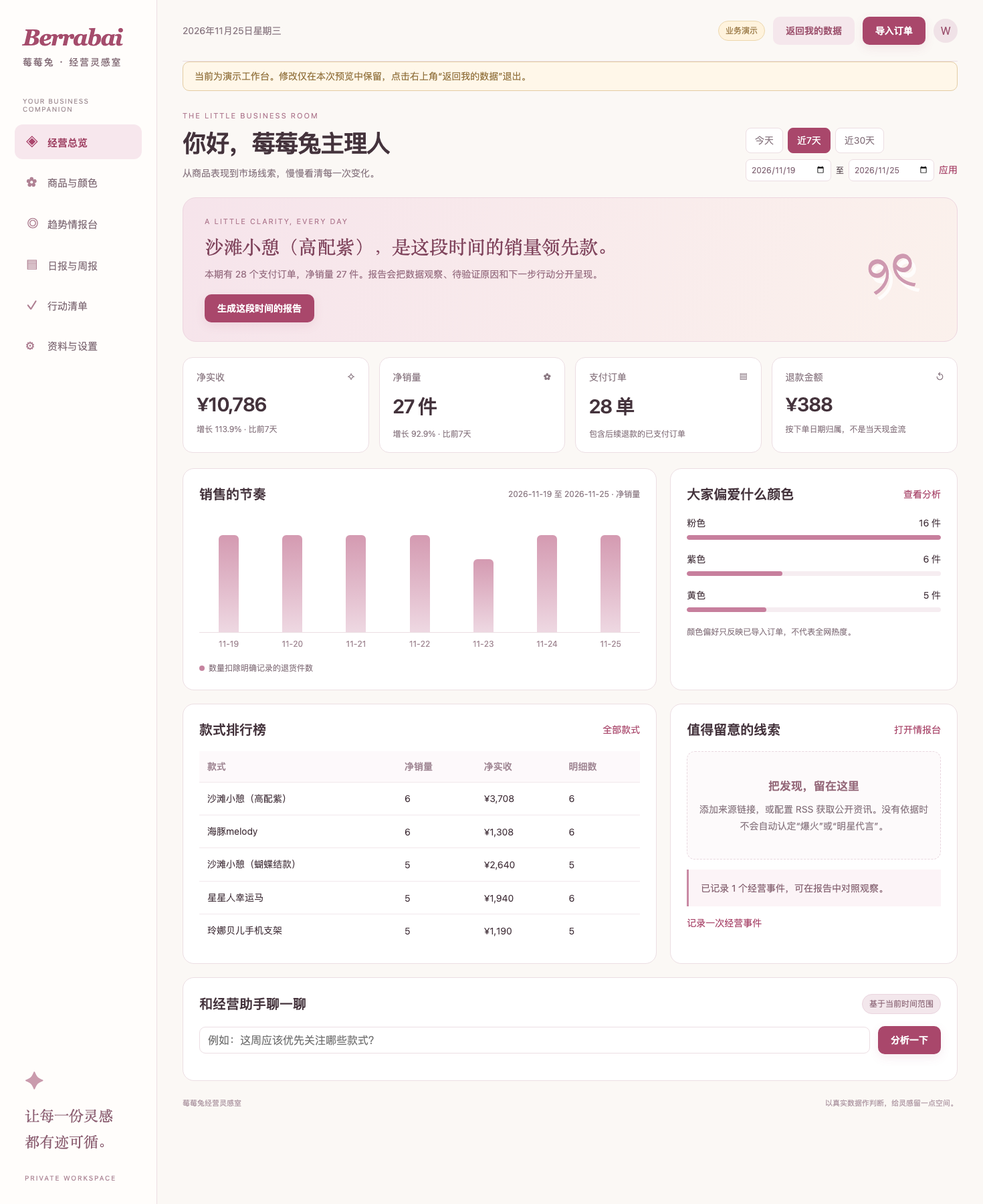
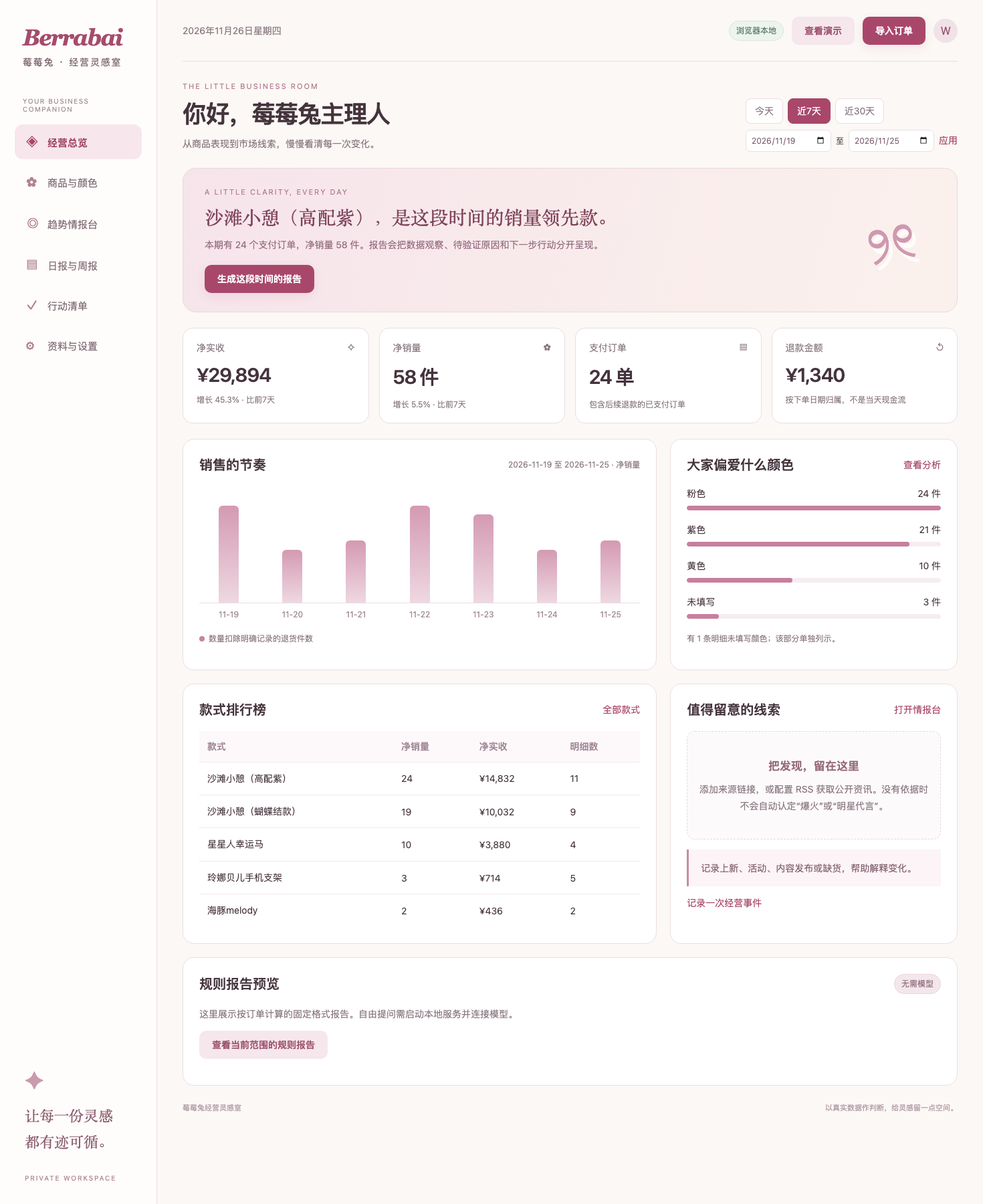
Fix order status and report periods; add product case study and demo walkthrough

diff --git a/dist/owner.js b/dist/owner.js
@@ -2,11 +2,15 @@
 const BerrabaiCore=(()=>{
  const day=d=>{const t=new Date(d);return `${t.getFullYear()}-${String(t.getMonth()+1).padStart(2,'0')}-${String(t.getDate()).padStart(2,'0')}`};
  const shift=(s,n)=>{const d=new Date(s+'T12:00:00');d.setDate(d.getDate()+n);return day(d)};
- function summarize(orders,start,end){if(![start,end].every(x=>/^\d{4}-\d{2}-\d{2}$/.test(x)&&!isNaN(new Date(x+'T12:00:00'))&&day(new Date(x+'T12:00:00'))===x))throw Error('请选择有效的开始与结束日期');const n=Math.round((new Date(end+'T12:00:00')-new Date(start+'T12:00:00'))/86400000)+1;if(n<1||n>366)throw Error('请选择1–366天的时间范围');const accepted=o=>!['已取消','未付款','已关闭'].includes(o.status);const current=orders.filter(o=>o.date>=start&&o.date<=end&&accepted(o));const previous=orders.filter(o=>o.date>=shift(start,-n)&&o.date<start&&accepted(o));const stats=rows=>({revenue:rows.reduce((s,o)=>s+o.paid-o.refund,0),paid:rows.reduce((s,o)=>s+o.paid,0),refund:rows.reduce((s,o)=>s+o.refund,0),quantity:rows.reduce((s,o)=>s+o.qty-o.refundQty,0),orders:new Set(rows.map(o=>o.orderId)).size,lines:rows.length});const group=(field)=>{const m=new Map;current.forEach(o=>{const key=o[field]||'未填写';let r=m.get(key)||{name:key,quantity:0,revenue:0,lines:0};r.quantity+=o.qty-o.refundQty;r.revenue+=o.paid-o.refund;r.lines++;m.set(key,r)});return [...m.values()].sort((a,b)=>b.quantity-a.quantity||b.revenue-a.revenue)};const daily=[];for(let d=start;d<=end;d=shift(d,1))daily.push({date:d,...stats(current.filter(o=>o.date===d))});return {start,end,days:n,...stats(current),previous:stats(previous),products:group('product'),colors:group('color'),daily,coverage:current.length,unknownColor:current.filter(o=>!o.color||o.color==='未填写').length}}
+ const paidStatuses=new Set(['已支付','已付款','待发货','已发货','已完成','交易成功','部分退款','已退款','退款成功']);
+ const isPaidStatus=status=>paidStatuses.has(status);
+ const comparison=(n,p,has,days)=>!has?'无上期数据':p===0?'上期为 0，暂不计算增幅':`${n>=p?'增长':'下降'} ${Math.abs((n-p)/p*100).toFixed(1)}% · 比前${days}天`;
+ function reportRange(kind,today,start,end){if(kind==='day')return [shift(today,-1),shift(today,-1)];if(kind==='week')return [shift(today,-7),shift(today,-1)];return [start,end]}
+ function summarize(orders,start,end){if(![start,end].every(x=>/^\d{4}-\d{2}-\d{2}$/.test(x)&&!isNaN(new Date(x+'T12:00:00'))&&day(new Date(x+'T12:00:00'))===x))throw Error('请选择有效的开始与结束日期');const n=Math.round((new Date(end+'T12:00:00')-new Date(start+'T12:00:00'))/86400000)+1;if(n<1||n>366)throw Error('请选择1–366天的时间范围');const accepted=o=>isPaidStatus(o.status);const current=orders.filter(o=>o.date>=start&&o.date<=end&&accepted(o));const previous=orders.filter(o=>o.date>=shift(start,-n)&&o.date<start&&accepted(o));const stats=rows=>({revenue:rows.reduce((s,o)=>s+o.paid-o.refund,0),paid:rows.reduce((s,o)=>s+o.paid,0),refund:rows.reduce((s,o)=>s+o.refund,0),quantity:rows.reduce((s,o)=>s+o.qty-o.refundQty,0),orders:new Set(rows.map(o=>o.orderId)).size,lines:rows.length});const group=(field)=>{const m=new Map;current.forEach(o=>{const key=o[field]||'未填写';let r=m.get(key)||{name:key,quantity:0,revenue:0,lines:0};r.quantity+=o.qty-o.refundQty;r.revenue+=o.paid-o.refund;r.lines++;m.set(key,r)});return [...m.values()].sort((a,b)=>b.quantity-a.quantity||b.revenue-a.revenue)};const daily=[];for(let d=start;d<=end;d=shift(d,1))daily.push({date:d,...stats(current.filter(o=>o.date===d))});return {start,end,days:n,...stats(current),previous:stats(previous),products:group('product'),colors:group('color'),daily,coverage:current.length,unrecognizedStatus:orders.filter(o=>o.date>=start&&o.date<=end&&!accepted(o)&&!['已取消','未付款','已关闭'].includes(o.status)).length,unknownColor:current.filter(o=>!o.color||o.color==='未填写').length}}
  function parseCSV(text){text=text.replace(/^\uFEFF/,'');const delim=text.split(/\r?\n/)[0].includes('\t')?'\t':',';let rows=[],row=[],cell='',quoted=false;for(let i=0;i<text.length;i++){let c=text[i];if(c==='"'){if(quoted&&text[i+1]==='"'){cell+='"';i++}else if(!quoted&&cell.length)throw Error('CSV引号格式不正确');else quoted=!quoted}else if(c===delim&&!quoted){row.push(cell);cell=''}else if((c==='\n'||c==='\r')&&!quoted){if(c==='\r'&&text[i+1]==='\n')i++;row.push(cell);if(row.some(x=>x.trim()))rows.push(row);row=[];cell=''}else cell+=c}if(quoted)throw Error('CSV引号未闭合');row.push(cell);if(row.some(x=>x.trim()))rows.push(row);if(rows.length<2)throw Error('文件至少需要表头和一行数据');const headers=rows.shift().map(x=>x.trim());if(new Set(headers).size!==headers.length)throw Error('存在重复列名，请先修改表头');return {headers,rows}}
  const cents=s=>{const v=String(s||'0').trim().replace(/[¥￥,\s]/g,'');if(!/^\d+(\.\d{1,2})?$/.test(v))throw Error('金额需为非负数，最多两位小数');const [a,b='']=v.split('.');const x=Number(a)*100+Number(b.padEnd(2,'0'));if(!Number.isSafeInteger(x)||x>1e11)throw Error('金额超出范围');return x};
- function normalize(raw,mapping){return raw.rows.map((r,i)=>{const val=k=>mapping[k]===undefined||mapping[k]===''?'':String(r[Number(mapping[k])]||'').trim();let date=val('date').slice(0,10).replace(/[/.]/g,'-');if(!/^\d{4}-\d{2}-\d{2}$/.test(date)||isNaN(new Date(date+'T12:00:00'))||day(new Date(date+'T12:00:00'))!==date)throw Error(`第${i+2}行：日期需为YYYY-MM-DD`);const orderId=val('orderId'),lineId=val('lineId'),product=val('product');if(!orderId||!product)throw Error(`第${i+2}行：订单号和商品名不能为空`);const qty=Number(val('qty')),refundQty=Number(val('refundQty')||0);if(!Number.isInteger(qty)||qty<1||qty>100000||!Number.isInteger(refundQty)||refundQty<0||refundQty>qty)throw Error(`第${i+2}行：数量或退货件数无效`);let paid,refund;try{paid=cents(val('paid'));refund=cents(val('refund'))}catch(e){throw Error(`第${i+2}行：${e.message}`)}if(refund>paid)throw Error(`第${i+2}行：退款不能超过实付金额`);const color=val('color')||'未填写';return {id:JSON.stringify([orderId,lineId||product+'|'+color]),orderId,lineId,date,product,color,qty,refundQty,paid,refund,status:val('status')||'已支付'}})}
- return {day,shift,summarize,parseCSV,normalize,cents};
+ function normalize(raw,mapping){return raw.rows.map((r,i)=>{const val=k=>mapping[k]===undefined||mapping[k]===''?'':String(r[Number(mapping[k])]||'').trim();let date=val('date').slice(0,10).replace(/[/.]/g,'-');if(!/^\d{4}-\d{2}-\d{2}$/.test(date)||isNaN(new Date(date+'T12:00:00'))||day(new Date(date+'T12:00:00'))!==date)throw Error(`第${i+2}行：日期需为YYYY-MM-DD`);const orderId=val('orderId'),lineId=val('lineId'),product=val('product');if(!orderId||!product)throw Error(`第${i+2}行：订单号和商品名不能为空`);const qty=Number(val('qty')),refundQty=Number(val('refundQty')||0);if(!Number.isInteger(qty)||qty<1||qty>100000||!Number.isInteger(refundQty)||refundQty<0||refundQty>qty)throw Error(`第${i+2}行：数量或退货件数无效`);let paid,refund;try{paid=cents(val('paid'));refund=cents(val('refund'))}catch(e){throw Error(`第${i+2}行：${e.message}`)}if(refund>paid)throw Error(`第${i+2}行：退款不能超过实付金额`);const color=val('color')||'未填写';return {id:JSON.stringify([orderId,lineId||product+'|'+color]),orderId,lineId,date,product,color,qty,refundQty,paid,refund,status:val('status')||'待核对'}})}
+ return {day,shift,summarize,parseCSV,normalize,cents,isPaidStatus,comparison,reportRange};
 })();
 if(typeof window!=='undefined')window.BerrabaiCore=BerrabaiCore;
 if(typeof document!=='undefined')(()=>{
@@ -22,14 +26,14 @@ async function change(fn){if(busy)return;busy=true;const old=structuredClone(sta
 function download(name,body,type='text/plain;charset=utf-8'){const a=document.createElement('a'),url=URL.createObjectURL(new Blob([body],{type}));a.href=url;a.download=name;a.click();setTimeout(()=>URL.revokeObjectURL(url),1000)}
 function sample(){const s=emptyState();const specs=[['沙滩小憩（蝴蝶结款）','粉色',528],['沙滩小憩（高配紫）','紫色',618],['星星人幸运马','黄色',388],['海豚melody','粉色',218],['玲娜贝儿手机支架','粉色',238]];for(let d=13;d>=0;d--){for(let j=0;j<(d<7?4:2);j++){const p=specs[(d+j)%specs.length],ref=d===2&&j===0;s.orders.push({id:'sample-'+d+'-'+j,orderId:'示例'+d+j,lineId:'1',date:C.shift(today,-d),product:p[0],color:p[1],qty:1,refundQty:ref?1:0,paid:p[2]*100,refund:ref?p[2]*100:0,status:'已支付'})}}s.events=[{id:uid(),date:C.shift(today,-3),title:'示例：发布紫色款实拍内容',type:'内容发布',note:'仅为演示记录，不代表真实经营事件'}];s.tasks=[{id:uid(),title:'核对本周热销款的材料与交期',due:C.shift(today,2),done:false},{id:uid(),title:'补充商品颜色字段，减少未知数据',due:C.shift(today,1),done:false}];return s}
 function metrics(){return C.summarize(state.orders,start,end)}
-const compare=(n,p,has)=>!has?'无上期数据':p===0?'上期为 0，暂不计算增幅':`${n>=p?'增长':'下降'} ${Math.abs((n-p)/p*100).toFixed(1)}% · 比前${period}天`;
+const compare=(n,p,has,days=period)=>C.comparison(n,p,has,days);
 function header(title,en,sub,filters=true){return `<div class="page-head"><div><div class="eyebrow">${en}</div><h1>${title}</h1><p class="sub">${sub}</p></div>${filters?`<div><div class="filters">${[1,7,30].map(n=>`<button data-period="${n}" class="${period===n?'active':''}">${n===1?'今天':'近'+n+'天'}</button>`).join('')}</div><div class="date-range" style="margin-top:9px"><input id="rangeStart" aria-label="开始日期" type="date" value="${start}"><span>至</span><input id="rangeEnd" aria-label="结束日期" type="date" value="${end}"><button class="mini-link" data-action="range">应用</button></div></div>`:''}</div>`}
 const empty=(title,text)=>`<div class="empty"><strong>${title}</strong>${text}</div>`;
 function rankings(items,limit=4){const top=items.slice(0,limit),max=Math.max(1,...top.map(x=>x.quantity));return top.map(x=>`<div class="rank"><div class="rank-top"><span>${E(x.name)}</span><span>${x.quantity} 件</span></div><div class="track"><span style="width:${x.quantity/max*100}%"></span></div></div>`).join('')}
 function productTable(m){return `<div class="table-wrap"><table><thead><tr><th>款式</th><th>净销量</th><th>净实收</th><th>明细数</th></tr></thead><tbody>${m.products.filter(x=>x.name.toLowerCase().includes(search.toLowerCase())).map(x=>`<tr><td>${E(x.name)}</td><td>${x.quantity}</td><td>${money(x.revenue)}</td><td>${x.lines}</td></tr>`).join('')}</tbody></table></div>`}
-function overview(){const m=metrics(),hero=m.coverage?`${E(m.products[0]?.name||'暂无')}，是这段时间的销量领先款。`:'把灵感，变成有依据的决定。';return header('你好，莓莓兔主理人','THE LITTLE BUSINESS ROOM','从商品表现到市场线索，慢慢看清每一次变化。')+`<div class="hero"><div><div class="eyebrow">A LITTLE CLARITY, EVERY DAY</div><h2>${hero}</h2><p>${m.coverage?`本期有 ${m.orders} 个支付订单，净销量 ${m.quantity} 件。报告会把数据观察、待验证原因和下一步行动分开呈现。`:'先导入一份订单，看看哪个款式与颜色更受欢迎；也可以查看演示，熟悉你的经营工作台。'}</p><button class="solid" data-action="${m.coverage?'report':'import'}">${m.coverage?'生成这段时间的报告':'导入第一份订单'}</button></div><div class="hero-art" aria-hidden="true">୨୧</div></div><div class="metrics">${[['净实收',money(m.revenue),compare(m.revenue,m.previous.revenue,m.previous.lines),'✧'],['净销量',m.quantity+' 件',compare(m.quantity,m.previous.quantity,m.previous.lines),'✿'],['支付订单',m.orders+' 单','包含后续退款的已支付订单','▤'],['退款金额',money(m.refund),'按下单日期归属，不是当天现金流','↺']].map(([a,b,c,d])=>`<div class="metric"><div class="name">${a}<span>${d}</span></div><strong>${m.coverage?b:'—'}</strong><small>${m.coverage?c:'导入订单后计算'}</small></div>`).join('')}</div><div class="columns"><section class="panel"><div class="panel-head"><h2>销售的节奏</h2><small>${start} 至 ${end} · 净销量</small></div>${m.coverage?chart(m):empty('你的第一条曲线，还在等数据','导入 CSV 订单后，按日期展示实际商品销量。')}<div class="legend"><span><i></i>数量扣除明确记录的退货件数</span></div></section><section class="panel"><div class="panel-head"><h2>大家偏爱什么颜色</h2><button class="mini-link" data-view="products">查看分析</button></div>${m.coverage?rankings(m.colors):empty('颜色偏好尚待发现','订单中的颜色字段会用于分析，不从商品图片猜测。')}<p class="note">${m.unknownColor?'有 '+m.unknownColor+' 条明细未填写颜色；该部分单独列示。':'颜色偏好只反映已导入订单，不代表全网热度。'}</p></section></div><div class="columns"><section class="panel"><div class="panel-head"><h2>款式排行榜</h2><button class="mini-link" data-view="products">全部款式</button></div>${m.coverage?productTable({...m,products:m.products.slice(0,5)}):empty('先认识你的畅销款','统计订单中实际成交的款式，不把咨询量当销量。')}</section><section class="panel"><div class="panel-head"><h2>值得留意的线索</h2><button class="mini-link" data-view="intel">打开情报台</button></div>${intelCards(state.intel.slice(0,2))}<div class="callout">${state.events.length?'已记录 '+state.events.length+' 个经营事件，可在报告中对照观察。':'记录上新、活动、内容发布或缺货，帮助解释变化。'}</div><button class="mini-link" data-action="event">记录一次经营事件</button></section></div><section class="panel"><div class="panel-head"><h2>和经营助手聊一聊</h2><span class="badge">基于当前时间范围</span></div><form id="askForm" class="row"><input class="search" id="askInput" style="flex:1;min-width:200px" required maxlength="600" placeholder="例如：这周应该优先关注哪些款式？"><button class="solid" id="askButton">分析一下</button></form><div id="aiAnswer" class="ai-answer" role="status"></div></section>`}
+function overview(){const m=metrics(),hero=m.coverage?`${E(m.products[0]?.name||'暂无')}，是这段时间的销量领先款。`:'把灵感，变成有依据的决定。';return header('你好，莓莓兔主理人','THE LITTLE BUSINESS ROOM','从商品表现到市场线索，慢慢看清每一次变化。')+`${m.unrecognizedStatus?`<div class="callout" role="status">本期 ${m.unrecognizedStatus} 条明细的订单状态缺失或未识别，已排除统计，请核对来源文件。</div>`:''}<div class="hero"><div><div class="eyebrow">A LITTLE CLARITY, EVERY DAY</div><h2>${hero}</h2><p>${m.coverage?`本期有 ${m.orders} 个支付订单，净销量 ${m.quantity} 件。报告会把数据观察、待验证原因和下一步行动分开呈现。`:'先导入一份订单，看看哪个款式与颜色更受欢迎；也可以查看演示，熟悉你的经营工作台。'}</p><button class="solid" data-action="${m.coverage?'report':'import'}">${m.coverage?'生成这段时间的报告':'导入第一份订单'}</button></div><div class="hero-art" aria-hidden="true">୨୧</div></div><div class="metrics">${[['净实收',money(m.revenue),compare(m.revenue,m.previous.revenue,m.previous.lines),'✧'],['净销量',m.quantity+' 件',compare(m.quantity,m.previous.quantity,m.previous.lines),'✿'],['支付订单',m.orders+' 单','包含后续退款的已支付订单','▤'],['退款金额',money(m.refund),'按下单日期归属，不是当天现金流','↺']].map(([a,b,c,d])=>`<div class="metric"><div class="name">${a}<span>${d}</span></div><strong>${m.coverage?b:'—'}</strong><small>${m.coverage?c:'导入订单后计算'}</small></div>`).join('')}</div><div class="columns"><section class="panel"><div class="panel-head"><h2>销售的节奏</h2><small>${start} 至 ${end} · 净销量</small></div>${m.coverage?chart(m):empty('你的第一条曲线，还在等数据','导入 CSV 订单后，按日期展示实际商品销量。')}<div class="legend"><span><i></i>数量扣除明确记录的退货件数</span></div></section><section class="panel"><div class="panel-head"><h2>大家偏爱什么颜色</h2><button class="mini-link" data-view="products">查看分析</button></div>${m.coverage?rankings(m.colors):empty('颜色偏好尚待发现','订单中的颜色字段会用于分析，不从商品图片猜测。')}<p class="note">${m.unknownColor?'有 '+m.unknownColor+' 条明细未填写颜色；该部分单独列示。':'颜色偏好只反映已导入订单，不代表全网热度。'}</p></section></div><div class="columns"><section class="panel"><div class="panel-head"><h2>款式排行榜</h2><button class="mini-link" data-view="products">全部款式</button></div>${m.coverage?productTable({...m,products:m.products.slice(0,5)}):empty('先认识你的畅销款','统计订单中实际成交的款式，不把咨询量当销量。')}</section><section class="panel"><div class="panel-head"><h2>值得留意的线索</h2><button class="mini-link" data-view="intel">打开情报台</button></div>${intelCards(state.intel.slice(0,2))}<div class="callout">${state.events.length?'已记录 '+state.events.length+' 个经营事件，可在报告中对照观察。':'记录上新、活动、内容发布或缺货，帮助解释变化。'}</div><button class="mini-link" data-action="event">记录一次经营事件</button></section></div><section class="panel"><div class="panel-head"><h2>${preview||demo?'规则报告预览':'AI 经营问答'}</h2><span class="badge">${preview||demo?'无需模型':'基于当前时间范围'}</span></div>${preview||demo?'<p class="sub">这里展示按订单计算的固定格式报告。自由提问需启动本地服务并连接模型。</p><button class="soft" data-action="preview-report" style="margin-top:14px">查看当前范围的规则报告</button>':'<form id="askForm" class="row"><input class="search" id="askInput" style="flex:1;min-width:200px" required maxlength="600" placeholder="例如：这周应该优先关注哪些款式？"><button class="solid" id="askButton">分析一下</button></form>'}<div id="aiAnswer" class="ai-answer" role="status"></div></section>`}
 function chart(m){const max=Math.max(1,...m.daily.map(x=>x.quantity));return `<div class="chart">${m.daily.map(x=>`<div class="bar-col" title="${x.date}：${x.quantity}件 / ${money(x.revenue)}"><div class="bar" style="height:${Math.max(1,x.quantity/max*145)}px"></div></div>`).join('')}</div><div class="chart-labels">${m.daily.map((x,i)=>`<span>${m.days>10&&i%Math.ceil(m.days/7)!==0?'':x.date.slice(5)}</span>`).join('')}</div>`}
-function products(){const m=metrics();return header('商品与颜色','PRODUCT OBSERVATORY','把销量、配色与商品资料放在一起看。')+`<div class="tab-row"><button data-tab="sales" class="${productTab==='sales'?'active':''}">销售表现</button><button data-tab="catalog" class="${productTab==='catalog'?'active':''}">商品目录 · ${catalog.length} 款</button></div><div class="panel"><div class="stats-caption"><h2 style="margin:0">${productTab==='sales'?'款式销量与净实收':'已整理的小程序商品'}</h2><input class="search" id="productSearch" placeholder="搜索款式或品类" value="${E(search)}" aria-label="搜索商品"></div>${productTab==='sales'?(m.coverage?productTable(m):empty('这个时间范围还没有订单','导入数据后，可以比较款式销量和净实收。')):`<p class="note">目录来自 2026-11-23 小程序列表。金额为当时起价，可能对应寄改；不代表含娃价格、实时库存或市场热度。</p><div class="catalog-grid">${catalog.filter(p=>(p['商品名称']+p['品类']).toLowerCase().includes(search.toLowerCase())).map(p=>`<article class="product-card"><span class="badge">${E(p['品类'])}</span><h3>${E(p['商品名称'])}</h3><strong>¥${E(p['列表起价（元）'])} 起</strong><p>${E(p['页面备注']||'具体规格与最终价格需确认')}</p></article>`).join('')||empty('没有找到款式','换个关键词试试。')}</div>`}</div>${productTab==='sales'?`<div class="columns" style="margin-top:20px"><div class="panel"><h2>颜色偏好</h2>${m.coverage?rankings(m.colors,10):empty('暂无颜色数据','导入时可映射颜色列。')}</div><div class="panel"><h2>分析口径</h2><p class="sub">净实收＝明细实付金额－退款金额。净销量＝购买数量－明确记录的退货件数。未付款、已取消、已关闭明细不参与统计。退款按原订单日期归属。</p><div class="callout">若只有退款金额，没有退货件数，无法准确扣减销量。请在导入时补充退货件数。</div><p class="sub">上期是紧邻所选范围的相同天数。未记录数据的日期不代表店铺实际没有成交。</p></div></div>`:''}`}
+function products(){const m=metrics();return header('商品与颜色','PRODUCT OBSERVATORY','把销量、配色与商品资料放在一起看。')+`<div class="tab-row"><button data-tab="sales" class="${productTab==='sales'?'active':''}">销售表现</button><button data-tab="catalog" class="${productTab==='catalog'?'active':''}">商品目录 · ${catalog.length} 款</button></div><div class="panel"><div class="stats-caption"><h2 style="margin:0">${productTab==='sales'?'款式销量与净实收':'已整理的小程序商品'}</h2><input class="search" id="productSearch" placeholder="搜索款式或品类" value="${E(search)}" aria-label="搜索商品"></div>${productTab==='sales'?(m.coverage?productTable(m):empty('这个时间范围还没有订单','导入数据后，可以比较款式销量和净实收。')):`<p class="note">目录来自 2026-11-23 小程序列表。金额为当时起价，可能对应寄改；不代表含娃价格、实时库存或市场热度。</p><div class="catalog-grid">${catalog.filter(p=>(p['商品名称']+p['品类']).toLowerCase().includes(search.toLowerCase())).map(p=>`<article class="product-card"><span class="badge">${E(p['品类'])}</span><h3>${E(p['商品名称'])}</h3><strong>¥${E(p['列表起价（元）'])} 起</strong><p>${E(p['页面备注']||'具体规格与最终价格需确认')}</p></article>`).join('')||empty('没有找到款式','换个关键词试试。')}</div>`}</div>${productTab==='sales'?`<div class="columns" style="margin-top:20px"><div class="panel"><h2>颜色偏好</h2>${m.coverage?rankings(m.colors,10):empty('暂无颜色数据','导入时可映射颜色列。')}</div><div class="panel"><h2>分析口径</h2><p class="sub">净实收＝明细实付金额－退款金额。净销量＝购买数量－明确记录的退货件数。仅已识别的支付、履约及退款状态参与统计；空白、未知和未支付状态排除。退款按原订单日期归属。</p><div class="callout">若只有退款金额，没有退货件数，无法准确扣减销量。请在导入时补充退货件数。</div><p class="sub">上期是紧邻所选范围的相同天数。未记录数据的日期不代表店铺实际没有成交。</p></div></div>`:''}`}
 function validUrl(u){try{const x=new URL(u);return ['https:','http:'].includes(x.protocol)?x.href:''}catch{return ''}}
 function intelCards(items){return items.length?items.map(x=>`<article class="insight"><span class="badge ${x.status==='已核实'?'green':'amber'}">${E(x.status||'待核实')}</span> <span class="badge">${E(x.kind||'市场线索')}</span><h3>${E(x.title)}</h3><p>${E(x.note||'还没有补充分析。')}</p><p>${E(x.source)} · ${E(x.date||'日期待确认')}</p>${validUrl(x.url)?`<a href="${E(validUrl(x.url))}" target="_blank" rel="noopener noreferrer">查看原始来源</a>`:''}<div style="margin-top:10px"><button class="mini-link" data-intel-edit="${E(x.id)}">核对 / 编辑</button></div></article>`).join(''):empty('把发现，留在这里','添加来源链接，或配置 RSS 获取公开资讯。没有依据时不会自动认定“爆火”或“明星代言”。')}
 function intel(){return header('趋势情报台','SIGNALS, WITH SOURCES','区分新品、合作、个人同款与待核实线索。',false)+`<div class="row" style="margin-bottom:20px"><button class="solid" data-action="intel-new">添加线索</button><button class="outline" data-action="fetch-feeds">获取 RSS 更新</button><button class="soft" data-action="feed">添加 RSS 来源</button><select class="search" id="intelFilter" aria-label="筛选情报">${['全部','待核实','已核实'].map(x=>`<option ${x===intelFilter?'selected':''}>${x}</option>`).join('')}</select></div><div class="columns"><div class="panel"><div class="panel-head"><h2>近期发现</h2><small>${state.intel.length} 条已保存线索</small></div>${intelCards(state.intel.filter(x=>intelFilter==='全部'||x.status===intelFilter))}</div><div><section class="panel"><h2>你的来源清单</h2>${state.feeds.map(f=>`<div class="insight"><h3>${E(f.name)}</h3><button class="mini-link" data-feed-edit="${E(f.id)}">编辑来源</button><p style="overflow-wrap:anywhere">${E(f.url)}</p><small class="sub">${E(f.lastFetch?'最近获取：'+f.lastFetch:'尚未获取')}</small></div>`).join('')||empty('尚未配置来源','添加公开 RSS / Atom 地址后，可手动获取更新。')}<p class="note">RSS 新条目默认“待核实”。标题与讨论次数不等于销量，也不能单独证明明星正式代言。</p></section><section class="panel" style="margin-top:20px"><h2>判断前，先问三件事</h2><p class="sub">是否有原始发布方？<br>发布时间是否足够近？<br>与莓莓兔哪些商品真正有关？</p></section></div></div>`}
@@ -38,8 +42,8 @@ function tasks(){return header('把想法，落成行动','SMALL STEPS, REAL PRO
 function settings(){return header('资料与设置','A PLACE FOR EVERYTHING','商品资料、订单和情报，都由你自己掌握。',false)+`<div class="columns"><section class="panel"><h2>订单与数据</h2><p class="sub">已保存 ${state.orders.length} 条订单明细，${state.reports.length} 份报告。${preview?'当前通过文件直接打开，数据保存在此浏览器。':'登录后数据保存在本机数据库。'}</p><div class="row" style="margin-top:20px"><button class="solid" data-action="import">导入订单</button><button class="outline" data-action="template">下载 CSV 模板</button><button class="soft" data-action="backup">导出备份</button><button class="outline" data-action="restore">恢复备份</button></div><div class="callout">一行代表一条商品明细，金额应为该明细的实付，不能把整个订单总额重复填入多行。订单号与明细编号用于去重。</div><p class="note">同一明细再次导入会更新，因此可以用新导出的订单表同步退款状态。未付款、已取消和已关闭会排除统计。</p></section><section class="panel"><h2>经营助手</h2><p class="sub" id="providerText">${preview?'文件预览可体验统计、报告与记录。连接本地服务后可调用本地模型进行经营分析。':'正在使用服务端配置的模型。'}</p><p class="note">本地模型需要安装并运行 Ollama。没有模型时，订单统计、普通日报周报和行动清单照常可用。联网情报需要独立配置 RSS 来源。</p><button class="outline" data-action="model-help">查看本地模型启动方式</button></section></div><section class="panel"><div class="panel-head"><h2>品牌知识与商品目录</h2><button class="soft" data-tab="catalog" data-view="products">浏览 ${catalog.length} 款商品</button></div><p class="sub">保留已整理的小程序商品资料，用于识别款式。商品列表没有可靠的颜色列，因此订单分析使用你导入的实际颜色字段。</p></section>`}
 function render(){const pages={overview,products,intel,reports,tasks,settings};$('#main').innerHTML=(demo?'<div class="demo-note">当前为演示工作台。修改仅在本次预览中保留，点击右上角“返回我的数据”退出。</div>':'')+pages[view]();$$('nav button').forEach(b=>b.classList.toggle('active',b.dataset.view===view));$('#demoButton').textContent=demo?'返回我的数据':'查看演示';$('#modeLabel').textContent=demo?'业务演示':preview?'浏览器本地':'私人工作台';$('#modeLabel').className='badge '+(demo?'amber':'green')}
 function go(v){view=v;search='';render();window.scrollTo(0,0)}
-function reportText(m){const top=m.products[0],color=m.colors.find(x=>x.name!=='未填写'),events=state.events.filter(x=>x.date>=m.start&&x.date<=m.end),intels=state.intel.filter(x=>x.date>=m.start&&x.date<=m.end);return `莓莓兔经营报告\n${m.start} 至 ${m.end}${demo?' · 业务演示':''}\n\n一、数据观察\n支付订单 ${m.orders} 单；净销量 ${m.quantity} 件。\n实付 ${money(m.paid)}；退款 ${money(m.refund)}；净实收 ${money(m.revenue)}。\n净实收对比：${compare(m.revenue,m.previous.revenue,m.previous.lines)}。\n${top?'销量领先款：'+top.name+'，'+top.quantity+' 件，净实收 '+money(top.revenue)+'。':'无已支付明细，无法判断畅销款。'}\n${color?'已填写颜色中销量最高：'+color.name+'，'+color.quantity+' 件。':'没有可用颜色数据。'}\n\n二、可能相关的背景（尚不能认定因果）\n${events.length?events.map(x=>x.date+' '+x.title+'：'+x.note).join('\n'):'没有记录本期活动、价格或内容变化，暂无法解释原因。'}\n\n三、市场线索\n${intels.length?intels.map(x=>`[${x.status}] ${x.title}\n来源：${x.source} ${x.url}`).join('\n'):'本期没有带来源的市场线索，不能判断全网热度或明星代言。'}\n\n四、建议先做的事\n${top?'核对「'+top.name+'」的材料与交期，结合库存再决定是否补货。':'导入完整订单后再决定补货或调整商品。'}\n${m.unknownColor?'补齐 '+m.unknownColor+' 条明细的颜色，以免颜色偏好判断失真。':'继续保留款式、颜色与退款件数，便于后续比较。'}\n记录下一次内容发布或活动的时间，再观察后续订单变化。\n\n统计口径\n数据来自导入的订单明细；按下单日期归属。净销量扣除明确记录的退货件数；只有退款金额而未填退货件数时，不能准确扣减件数。未付款、已取消、已关闭不计入。比较期为紧邻本期的相同天数；没有记录不等于实际没有成交。`}
-async function generate(kind){let s=start,e=end;if(kind==='day'){s=e=C.shift(today,-1)}if(kind==='week'){s=C.shift(today,-7);e=C.shift(today,-1)}const m=C.summarize(state.orders,s,e);if(!m.coverage)return toast('该时间范围没有已支付订单，请先导入对应数据');const r={id:uid(),title:(kind==='day'?'经营日报':kind==='week'?'经营周报':'经营报告')+' · '+s+' 至 '+e,created:stamp(),text:reportText(m),sample:demo};if(await change(()=>{state.reports.unshift(r);reportId=r.id;view='reports'}))toast('报告已保存')}
+function reportText(m){const top=m.products[0],color=m.colors.find(x=>x.name!=='未填写'),events=state.events.filter(x=>x.date>=m.start&&x.date<=m.end),intels=state.intel.filter(x=>x.date>=m.start&&x.date<=m.end);return `莓莓兔经营报告\n${m.start} 至 ${m.end}${demo?' · 业务演示':''}\n\n一、数据观察\n支付订单 ${m.orders} 单；净销量 ${m.quantity} 件。\n实付 ${money(m.paid)}；退款 ${money(m.refund)}；净实收 ${money(m.revenue)}。\n净实收对比：${compare(m.revenue,m.previous.revenue,m.previous.lines,m.days)}。\n比较期：${C.shift(m.start,-m.days)} 至 ${C.shift(m.start,-1)}。\n${top?'销量领先款：'+top.name+'，'+top.quantity+' 件，净实收 '+money(top.revenue)+'。':'无已支付明细，无法判断畅销款。'}\n${color?'已填写颜色中销量最高：'+color.name+'，'+color.quantity+' 件。':'没有可用颜色数据。'}\n\n二、可能相关的背景（尚不能认定因果）\n${events.length?events.map(x=>x.date+' '+x.title+'：'+x.note).join('\n'):'没有记录本期活动、价格或内容变化，暂无法解释原因。'}\n\n三、市场线索\n${intels.length?intels.map(x=>`[${x.status}] ${x.title}\n来源：${x.source} ${x.url}`).join('\n'):'本期没有带来源的市场线索，不能判断全网热度或明星代言。'}\n\n四、建议先做的事\n${top?'核对「'+top.name+'」的材料与交期，结合库存再决定是否补货。':'导入完整订单后再决定补货或调整商品。'}\n${m.unknownColor?'补齐 '+m.unknownColor+' 条明细的颜色，以免颜色偏好判断失真。':'继续保留款式、颜色与退款件数，便于后续比较。'}\n记录下一次内容发布或活动的时间，再观察后续订单变化。\n\n统计口径\n数据来自导入的订单明细；按下单日期归属。净销量扣除明确记录的退货件数；只有退款金额而未填退货件数时，不能准确扣减件数。仅已识别的支付、履约及退款状态计入，状态缺失或未识别的明细排除。比较期为紧邻本期的相同天数；没有记录不等于实际没有成交。`}
+async function generate(kind){const [s,e]=C.reportRange(kind,today,start,end);const m=C.summarize(state.orders,s,e);if(!m.coverage)return toast('该时间范围没有已支付订单，请先导入对应数据');const r={id:uid(),title:(kind==='day'?'经营日报':kind==='week'?'经营周报':'经营报告')+' · '+s+' 至 '+e,created:stamp(),text:reportText(m),sample:demo};if(await change(()=>{state.reports.unshift(r);reportId=r.id;view='reports'}))toast('报告已保存')}
 function login(){if(preview)return;modal('登录你的经营工作台','<p class="sub">使用启动服务时设置的管理员密码。</p><form id="loginForm"><div class="field"><label for="password">管理员密码</label><input id="password" type="password" autocomplete="current-password" required></div><button class="solid">进入工作台</button><p id="loginError" class="danger" role="status"></p></form>');$('#loginForm').onsubmit=async e=>{e.preventDefault();try{await api('login',{password:$('#password').value});auth=true;close();await load()}catch(err){$('#loginError').textContent=err.message}}}
 async function load(){if(preview){try{state=JSON.parse(localStorage.getItem('bb-owner-v1')||'null')||emptyState()}catch{state=emptyState()}realState=structuredClone(state);render();return}try{const me=await api('me');auth=me.admin;if(!auth){render();login();return}const x=await api('business/state');state=x.state;version=x.version;realState=structuredClone(state);render();if($('#providerText'))$('#providerText').textContent=(me.provider==='local'?'本地模型模式：':'云端模型模式：')+me.model+'（连接将在分析时检查）'}catch(e){toast(e.message)}}
 const field=(label,id,type='text',value='',required=true)=>`<div class="field"><label for="${id}">${label}</label><input id="${id}" type="${type}" value="${E(value)}" ${required?'required':''}></div>`;
@@ -50,12 +54,12 @@ function addTask(){formModal('添加行动',field('行动内容','taskTitle')+fi
 function addFeed(id){const old=state.feeds.find(f=>f.id===id);formModal(old?'编辑资讯来源':'添加 RSS / Atom 来源',field('来源名称','feedName','text',old?.name||'')+field('公开RSS地址（HTTPS）','feedUrl','url',old?.url||'')+'<p class="note">粘贴完整的RSS或Atom地址。首尾空格和反引号会自动清理，普通网页链接无法直接作为资讯源。</p>',async()=>{const url=$('#feedUrl').value.trim().replace(/^`+|`+$/g,'').trim();if(!url.startsWith('https://')||!validUrl(url))throw Error('请使用有效的HTTPS来源地址');if(state.feeds.some(f=>f.id!==old?.id&&f.url===url))throw Error('已添加同一来源地址');const f={id:old?.id||uid(),name:$('#feedName').value.trim(),url,lastFetch:old?.url===url?old.lastFetch:''};await change(()=>{const i=state.feeds.findIndex(x=>x.id===f.id);if(i<0)state.feeds.push(f);else state.feeds[i]=f})})}
 async function fetchFeeds(){if(preview||demo)return toast('RSS获取需要本地服务，演示模式不会联网抓取');if(!state.feeds.length)return addFeed();let added=0,errors=[];toast('正在逐个获取来源…');for(const f of state.feeds){try{const x=await api('business/feeds',{url:f.url});await change(()=>{for(const item of x.items){if(state.intel.some(i=>i.url===item.url))continue;const parsed=new Date(item.published);state.intel.unshift({id:uid(),title:item.title,url:item.url,source:f.name,date:isNaN(parsed)?'':C.day(parsed),kind:'市场线索',status:'待核实',note:'来自RSS；需阅读原始来源核实。'+(!item.published?'原文未提供日期。':'原始时间：'+item.published)});added++}f.lastFetch=stamp()})}catch(e){errors.push(f.name+'：'+e.message)}}toast('新增 '+added+' 条线索'+(errors.length?'；部分来源失败':''));if(errors.length)modal('来源获取结果','<p>'+errors.map(E).join('<br>')+'</p>')}
 function template(){download('莓莓兔订单模板.csv','\uFEFF订单号,明细编号,下单时间,商品名称,颜色,数量,实付金额,退款金额,退货件数,状态\nBB001,1,2026-11-23,示例商品,粉色,1,100.00,0,0,已支付\n','text/csv;charset=utf-8')}
-const columns=[['orderId','订单号',true,['订单号','order_id']],['lineId','明细编号',false,['明细编号','子订单号','line_id']],['date','下单日期',true,['下单时间','下单日期','date']],['product','商品名称',true,['商品名称','商品名','product']],['color','颜色',false,['颜色','颜色规格','color']],['qty','数量',true,['数量','购买数量','quantity']],['paid','明细实付金额',true,['实付金额','明细实付金额','paid']],['refund','退款金额',false,['退款金额','refund']],['refundQty','退货件数',false,['退货件数','退款数量','refund_qty']],['status','订单状态',false,['状态','订单状态','status']]];
+const columns=[['orderId','订单号',true,['订单号','order_id']],['lineId','明细编号',false,['明细编号','子订单号','line_id']],['date','下单日期',true,['下单时间','下单日期','date']],['product','商品名称',true,['商品名称','商品名','product']],['color','颜色',false,['颜色','颜色规格','color']],['qty','数量',true,['数量','购买数量','quantity']],['paid','明细实付金额',true,['实付金额','明细实付金额','paid']],['refund','退款金额',false,['退款金额','refund']],['refundQty','退货件数',false,['退货件数','退款数量','refund_qty']],['status','订单状态',true,['状态','订单状态','status']]];
 function openImport(){if(demo)return toast('请先返回我的数据，再导入真实订单');modal('导入订单数据','<p class="sub">支持 UTF-8 编码的 CSV / TSV，可从 Excel 另存为 CSV。只导入经营分析字段，不需要客户姓名、电话或地址。</p><label class="file-drop">选择你的订单文件<input id="csvFile" type="file" accept=".csv,.tsv,text/csv,text/tab-separated-values"></label><p class="note">金额按商品明细填写；退款数量单独填写。重复订单号＋明细编号会更新原记录。</p><button class="soft" data-action="template">下载模板</button><p id="importError" class="danger" role="status"></p>');$('#csvFile').onchange=async e=>{try{const file=e.target.files[0];if(!file)return;if(file.size>5_000_000)throw Error('文件不能超过5MB');mapImport(C.parseCSV(await file.text()))}catch(err){$('#importError').textContent=err.message}}}
-function mapImport(raw){modal('核对订单字段',`<p class="sub">检测到 ${raw.rows.length} 行。请将文件列对应到分析字段。</p><form id="mappingForm"><div class="form-grid">${columns.map(([key,title,req,aliases])=>{const found=raw.headers.findIndex(h=>aliases.includes(h));return `<div class="field"><label for="map-${key}">${title}${req?' *':''}</label><select id="map-${key}" ${req?'required':''}><option value="">${req?'请选择':'不导入此字段'}</option>${raw.headers.map((h,i)=>`<option value="${i}" ${i===found?'selected':''}>${E(h)}</option>`).join('')}</select></div>`}).join('')}</div><button class="solid">预览并检查</button><p id="mappingError" class="danger" role="status"></p></form>`);$('#mappingForm').onsubmit=e=>{e.preventDefault();try{const mapping=Object.fromEntries(columns.map(([k])=>[k,$('#map-'+k).value]));const mapped=columns.map(([k])=>mapping[k]).filter(x=>x!=='');if(new Set(mapped).size!==mapped.length)throw Error('同一列不能重复映射到多个字段');const rows=C.normalize(raw,mapping);const seen=new Set;for(const r of rows){if(seen.has(r.id))throw Error('文件中出现重复订单明细，请填写唯一明细编号后重新导入');seen.add(r.id)}const existing=new Map(state.orders.map(o=>[o.id,o])),updates=rows.filter(r=>existing.has(r.id)).length;modal('确认导入',`<p class="sub">新增 ${rows.length-updates} 条，更新 ${updates} 条。导入后保存至你的工作台。</p><div class="data-preview"><table><thead><tr><th>商品</th><th>日期</th><th>数量</th><th>实付</th></tr></thead><tbody>${rows.slice(0,8).map(r=>`<tr><td>${E(r.product)} · ${E(r.color)}</td><td>${r.date}</td><td>${r.qty}</td><td>${money(r.paid)}</td></tr>`).join('')}</tbody></table></div><p class="note">已取消、未付款、已关闭不会计入统计。不含退货件数时默认0，可能高估净销量。${mapping.lineId===''?'未选明细编号：将使用订单号、商品和颜色组合识别同一明细。':''}</p><button id="confirmImport" class="solid">确认保存 ${rows.length} 条</button>`);$('#confirmImport').onclick=async()=>{if(await change(()=>{rows.forEach(r=>existing.set(r.id,r));state.orders=[...existing.values()];view='overview'})){close();toast('订单已导入')}}}catch(err){$('#mappingError').textContent=err.message}}}
+function mapImport(raw){modal('核对订单字段',`<p class="sub">检测到 ${raw.rows.length} 行。请将文件列对应到分析字段。</p><form id="mappingForm"><div class="form-grid">${columns.map(([key,title,req,aliases])=>{const found=raw.headers.findIndex(h=>aliases.includes(h));return `<div class="field"><label for="map-${key}">${title}${req?' *':''}</label><select id="map-${key}" ${req?'required':''}><option value="">${req?'请选择':'不导入此字段'}</option>${raw.headers.map((h,i)=>`<option value="${i}" ${i===found?'selected':''}>${E(h)}</option>`).join('')}</select></div>`}).join('')}</div><button class="solid">预览并检查</button><p id="mappingError" class="danger" role="status"></p></form>`);$('#mappingForm').onsubmit=e=>{e.preventDefault();try{const mapping=Object.fromEntries(columns.map(([k])=>[k,$('#map-'+k).value]));const mapped=columns.map(([k])=>mapping[k]).filter(x=>x!=='');if(new Set(mapped).size!==mapped.length)throw Error('同一列不能重复映射到多个字段');const rows=C.normalize(raw,mapping);const seen=new Set;for(const r of rows){if(seen.has(r.id))throw Error('文件中出现重复订单明细，请填写唯一明细编号后重新导入');seen.add(r.id)}const existing=new Map(state.orders.map(o=>[o.id,o])),updates=rows.filter(r=>existing.has(r.id)).length;modal('确认导入',`<p class="sub">新增 ${rows.length-updates} 条，更新 ${updates} 条。导入后保存至你的工作台。</p><div class="data-preview"><table><thead><tr><th>商品</th><th>日期</th><th>数量</th><th>实付</th></tr></thead><tbody>${rows.slice(0,8).map(r=>`<tr><td>${E(r.product)} · ${E(r.color)}</td><td>${r.date}</td><td>${r.qty}</td><td>${money(r.paid)}</td></tr>`).join('')}</tbody></table></div><p class="note">${rows.filter(r=>!C.isPaidStatus(r.status)&&!['已取消','未付款','已关闭'].includes(r.status)).length} 条明细的状态待核对，已排除统计。已取消、未付款、已关闭也不计入。不含退货件数时默认0，可能高估净销量。${mapping.lineId===''?'未选明细编号：将使用订单号、商品和颜色组合识别同一明细。':''}</p><button id="confirmImport" class="solid">确认保存 ${rows.length} 条</button>`);$('#confirmImport').onclick=async()=>{if(await change(()=>{rows.forEach(r=>existing.set(r.id,r));state.orders=[...existing.values()];view='overview'})){close();toast('订单已导入')}}}catch(err){$('#mappingError').textContent=err.message}}}
 function restore(){modal('恢复工作台备份','<p class="sub">从此工作台导出的 JSON 恢复，确认后替换当前订单、情报、事件、报告和待办。建议先导出当前备份。</p><input id="restoreFile" type="file" accept=".json"><p id="restoreError" class="danger"></p>');$('#restoreFile').onchange=async e=>{try{const f=e.target.files[0];if(f.size>8_000_000)throw Error('备份文件过大');const x=JSON.parse(await f.text());if(x.format!=='berrabai-owner-v1'||!x.state)throw Error('不是本工作台备份');for(const k of Object.keys(emptyState()))if(!Array.isArray(x.state[k]))throw Error('备份字段不完整');modal('确认恢复',`<p>将恢复 ${x.state.orders.length} 条订单、${x.state.intel.length} 条情报。当前数据将被替换。</p><button class="solid" id="confirmRestore">确认替换并恢复</button>`);$('#confirmRestore').onclick=async()=>{if(await change(()=>{state=x.state;reportId=''})){close();toast('备份已恢复')}}}catch(err){$('#restoreError').textContent=err.message}}}
-async function ask(e){e.preventDefault();const q=$('#askInput').value.trim(),m=metrics();if(!m.coverage){$('#aiAnswer').textContent='这个时间范围尚无已支付订单，请先导入数据。';return}if(preview||demo){$('#aiAnswer').textContent=reportText(m)+'\n\n当前是界面体验：上面为按订单计算的规则报告。自由提问分析需要连接本地模型。';return}$('#askButton').disabled=true;$('#aiAnswer').textContent='正在结合订单与经营背景分析…';try{const context=JSON.stringify({summary:m,events:state.events.filter(x=>x.date>=start&&x.date<=end),intel:state.intel.filter(x=>x.date>=start&&x.date<=end).slice(0,15)});const x=await api('business/analyze',{context,question:q});$('#aiAnswer').textContent=x.answer}catch(err){$('#aiAnswer').textContent=err.message}finally{if($('#askButton'))$('#askButton').disabled=false}}
-const actions={import:openImport,template,event:addEvent,task:addTask,'intel-new':()=>addIntel(''),feed:addFeed,'fetch-feeds':fetchFeeds,report:()=>generate('range'),print:()=>window.print(),'export-report':()=>{const r=state.reports.find(x=>x.id===reportId);if(r)download(r.title+'.txt',r.text)},backup:()=>download('莓莓兔经营备份-'+today+'.json',JSON.stringify({format:'berrabai-owner-v1',exported:stamp(),state},null,2),'application/json'),restore,range:()=>{try{const s=$('#rangeStart').value,e=$('#rangeEnd').value;C.summarize(state.orders,s,e);start=s;end=e;period=Math.round((new Date(e+'T12:00:00')-new Date(s+'T12:00:00'))/86400000)+1;render()}catch(e){toast(e.message)}},'model-help':()=>modal('本地模型启动方式','<p class="sub">安装 Ollama 后，在终端运行：</p><pre class="report">ollama pull qwen3:4b\nollama serve</pre><p class="sub">在另一个终端启动工作台：</p><pre class="report">export AI_PROVIDER=local\nexport LOCAL_MODEL=qwen3:4b\nexport ADMIN_PASSWORD=你设置的密码\npython3 server.py</pre><p class="note">模型未安装时不会伪造 AI 回答。纯统计与报告不依赖模型。</p>')};
+async function ask(e){e.preventDefault();const q=$('#askInput').value.trim(),m=metrics();if(!m.coverage){$('#aiAnswer').textContent='这个时间范围尚无已支付订单，请先导入数据。';return}if(preview||demo){$('#aiAnswer').textContent='当前为规则报告预览，自由提问需要启动服务并连接模型。';return}$('#askButton').disabled=true;$('#aiAnswer').textContent='正在结合订单与经营背景分析…';try{const context=JSON.stringify({summary:m,events:state.events.filter(x=>x.date>=start&&x.date<=end),intel:state.intel.filter(x=>x.date>=start&&x.date<=end).slice(0,15)});const x=await api('business/analyze',{context,question:q});$('#aiAnswer').textContent=x.answer}catch(err){$('#aiAnswer').textContent=err.message}finally{if($('#askButton'))$('#askButton').disabled=false}}
+const actions={'preview-report':()=>{$('#aiAnswer').textContent=reportText(metrics())},import:openImport,template,event:addEvent,task:addTask,'intel-new':()=>addIntel(''),feed:addFeed,'fetch-feeds':fetchFeeds,report:()=>generate('range'),print:()=>window.print(),'export-report':()=>{const r=state.reports.find(x=>x.id===reportId);if(r)download(r.title+'.txt',r.text)},backup:()=>download('莓莓兔经营备份-'+today+'.json',JSON.stringify({format:'berrabai-owner-v1',exported:stamp(),state},null,2),'application/json'),restore,range:()=>{try{const s=$('#rangeStart').value,e=$('#rangeEnd').value;C.summarize(state.orders,s,e);start=s;end=e;period=Math.round((new Date(e+'T12:00:00')-new Date(s+'T12:00:00'))/86400000)+1;render()}catch(e){toast(e.message)}},'model-help':()=>modal('本地模型启动方式','<p class="sub">安装 Ollama 后，在终端运行：</p><pre class="report">ollama pull qwen3:4b\nollama serve</pre><p class="sub">在另一个终端启动工作台：</p><pre class="report">export AI_PROVIDER=local\nexport LOCAL_MODEL=qwen3:4b\nexport ADMIN_PASSWORD=你设置的密码\npython3 server.py</pre><p class="note">模型未安装时不会伪造 AI 回答。纯统计与报告不依赖模型。</p>')};
 $('#closeModal').onclick=close;
 $('#demoButton').onclick=()=>{if(demo){demo=false;state=structuredClone(realState)}else{realState=structuredClone(state);state=sample();demo=true}reportId='';render()};$('#importButton').onclick=openImport;
 $('#accountButton').onclick=()=>{if(preview)return modal('本地文件模式','<p>当前数据保存在此浏览器中。启动本地服务并通过网页地址访问，可使用管理员登录和数据库。</p>');if(!auth)return login();modal('管理员账号','<p>当前已登录自己的经营工作台。</p><button class="outline" id="logout">退出登录</button>');$('#logout').onclick=async()=>{await api('logout',{});auth=false;demo=false;state=realState=emptyState();close();render();login()}};

diff --git a/PRODUCT_CASE_STUDY.md b/PRODUCT_CASE_STUDY.md
@@ -1,0 +1,57 @@
+# Berrabai 经营工作台：产品案例
+
+## 1. Business Context｜业务与使用者
+
+Berrabai 莓莓兔经营贴钻娃娃、手机配件、永生花等手工定制商品。主理人的工作涉及款式与配色选择、定制需求沟通、供应商协调、制作交付和日常经营安排。商品目录有多个品类，同一款也可能存在不同颜色或规格。
+
+工作台面向品牌经营者本人。小程序继续承担交易，工作台负责整理订单表现和经营记录。现阶段通过后台导出的订单文件更新分析数据，尚未直接读取小程序云数据库。
+
+## 2. Problem Definition｜要回答的问题
+
+本项目从三个经营问题出发：某段时间哪些款式和颜色卖得更多；退款后实际留下多少收入与销量；同期上新、活动或内容发布，是否值得与订单变化一起观察。
+
+例如，看到紫色款销量上升时，需要同时查看成交件数、退款、同期发布记录，再决定是否优先准备材料。单看商品咨询或一条市场消息，不足以作补货判断。这里是设计场景，并非已经验证的经营结论。
+
+前期讨论过消费者咨询和反馈收集，后来将范围收敛到主理人自己的分析工具。当前没有记录足够的真实整理耗时、错误率或用户访谈，不能据此断言原后台效率低，或声称工作台已降低了多少人工成本。需要用实际订单整理过程验证这一判断。
+
+## 3. Product Decisions｜优先级与取舍
+
+| 决策 | 原因与代价 |
+| --- | --- |
+| 先做订单、退款、款式、颜色 | 对应明确经营问题，能通过订单明细核对结果；字段不完整时会影响结论 |
+| 同时展示净实收与净销量 | 金额退款和退货件数并不等价，分别回答收入和商品需求问题；尚无完整成本，不能计算利润 |
+| 先提供文件导入 | 可以先验证字段映射、去重、退款和统计口径；每次更新仍需后台导出，不能称为实时同步 |
+| 保留经营事件和来源链接 | 给变化补充背景和核实依据；不把时间上的相关性写成因果关系 |
+| 计算交给程序，模型用于解释 | 指标可重复核对；模型的建议仍需主理人判断，规则报告与自由问答分开呈现 |
+| 暂缓库存联动、全网热度、自动同步与定时推送 | 当前缺少相应数据或接入链路，先完成一次可核对的分析流程 |
+
+状态统计使用明确列表，缺失和未知状态排除并提示。退款按原订单日期归属，因此净实收不是按收退款发生日统计的现金流。没有历史数据时不展示虚构增长率。
+
+## 4. MVP Demonstration｜一次完整操作
+
+无需安装服务即可打开 `dist/index.html`，点击「查看演示」浏览内置工作台。文件演示中展示规则报告；模型问答需另行启动服务。
+
+核对导入流程时，使用空工作台，按以下顺序操作：
+
+1. 选择 `examples/sample-orders.csv`，核对订单号、明细编号、日期、商品、颜色、金额、数量及状态映射。
+2. 在预览中确认新增与更新数量，核对待核对状态提示，再保存。
+3. 设置日期为 **2026-11-19 至 2026-11-25**。核对支付订单 **24 单**、净销量 **58 件**、实付 **¥31,234**、退款 **¥1,340**、净实收 **¥29,894**。
+4. 查看款式和颜色排名，再记录同期活动或内容背景。缺少背景时保留问题，不直接解释增长原因。
+5. 生成当前范围报告，核对比较期 **2026-11-12 至 2026-11-18**，其净实收为 **¥20,570**；保存或下载报告。
+6. 同一文件再次导入，原明细更新而不重复累加。修改退款后重新导入，再观察净实收与净销量变化。
+
+这些数值是仓库验收文件的核对结果，不作为工作台上线后的经营提升证据。
+
+![订单导入预览](docs/images/order-import.png)
+
+![规则周报](docs/images/weekly-report.png)
+
+## 5. Validation & Iteration｜验证与下一步
+
+目前验证覆盖整数金额计算、退款件数、多明细订单、重复更新标识、CSV 格式、状态缺失与未知状态排除、日期范围、日报周报比较期、存储冲突、管理员权限和资讯获取边界。浏览器检查还覆盖文件演示不出现自由问答框、导入预览以及从近 30 天页面生成周报时仍按前 7 天比较。
+
+本次审查修正了两个已有问题：未知状态原先可能进入成交统计；报告比较期文字原先依赖页面筛选范围。两项均增加回归测试。README 原先已包含总览截图，本次补充导入与报告截图，并将无需配置的演示步骤放到前部。
+
+软件测试通过只说明对应规则能执行。模型建议质量、持续使用意愿、整理耗时变化、自动同步稳定性及实际经营收益仍待验证。下一步先在真实经营周期中记录数据核对耗时、状态待核对数量和建议是否被采用，再决定优先做接口同步还是改进字段映射。
+
+若实施自动同步，需要在微信云开发或自建后台的实际环境中完成授权、订单表映射、退款更新、重试和同步时间记录；完成端到端验证后才计为已接入。

diff --git a/README.md b/README.md
@@ -1,10 +1,24 @@
 # 商家经营工作台
 
-Berrabai手工定制业务的内部工具，用于查看订单、款式和颜色表现，记录经营活动，并整理相关市场资讯。
+Berrabai 手工定制业务的内部工具，用于查看订单、款式和颜色表现，记录经营活动，并整理相关市场资讯。
 
-商品包括贴钻娃娃、手机配件和永生花等品类。工作台与小程序后台对接，订单及退款数据同步后，工作台将订单统计与上新、活动、内容发布等记录放在同一个页面，便于按时间查看商品表现和业务变化。
+商品包括贴钻娃娃、手机配件和永生花等品类。工作台将订单统计与上新、活动、内容发布等记录放在同一个页面，便于按时间查看商品表现和业务变化。
 
 ![经营总览](docs/images/workspace-preview.png)
+
+## 无需配置即可查看演示
+
+下载仓库后，用桌面浏览器直接打开 `dist/index.html`，点击右上角「查看演示」。无需启动 Python、配置密钥或下载模型，即可查看统计、规则报告和行动清单。
+
+文件演示只展示规则报告；AI 自由问答需要启动服务并连接模型。
+
+**[产品案例：业务背景、取舍与验证](PRODUCT_CASE_STUDY.md)**
+
+## 小程序数据如何进入工作台
+
+当前通过小程序后台导出的 CSV / TSV 订单文件更新数据，支持字段映射与相同明细覆盖更新。后台重新导出后，再次导入即可更新成交和退款信息。
+
+当前未实现小程序 API 或云数据库自动同步；接口授权、状态映射和增量更新属于后续接入工作。SQLite 保存工作台的分析数据，不替代小程序的交易后台。
 
 ## 主要功能
 
@@ -16,6 +30,16 @@ Berrabai手工定制业务的内部工具，用于查看订单、款式和颜色
 - **行动清单**：记录待办、截止日期，以及上新、缺货、价格调整等经营事件。
 
 经营问答支持连接 Ollama 本地模型或兼容接口的云端模型。统计和普通报告通过程序计算，未连接模型时仍可使用。
+
+## 从导入到报告
+
+**1. 核对字段并预览导入**
+
+![订单导入预览](docs/images/order-import.png)
+
+**2. 选择日期，生成并保存周报**
+
+![经营周报](docs/images/weekly-report.png)
 
 ## 本地运行
 
@@ -40,6 +64,7 @@ python3 server.py
 
 - 商品目录包含 164 款商品、21 个品类，为 2026-11-23 的小程序列表快照；金额是当时展示的起价。
 - [订单文件](examples/sample-orders.csv)包含 70 条订单明细，用于订单导入和统计核对。
+- 订单状态采用明确的成交状态列表；空白或未识别状态标为待核对并排除统计，导入预览和总览会提示。
 - 统计以订单明细为单位：净实收＝实付－退款；净销量＝购买数量－退货件数。
 - 工作台数据保存在本机 SQLite，支持 JSON 备份恢复；数据库、导出备份和密钥保留在本地。
 

diff --git a/docs/USAGE.md b/docs/USAGE.md
@@ -73,11 +73,11 @@ AI_API_KEY=your-key
 
 ## 统计口径
 
-- 一行代表一条商品明细。必需字段：订单号、下单日期、商品名称、数量、明细实付金额；日期为 `YYYY-MM-DD`。
+- 一行代表一条商品明细。必需字段：订单号、下单日期、商品名称、数量、明细实付金额、订单状态；日期为 `YYYY-MM-DD`。
 - 建议提供明细编号；同“订单号＋明细编号”重复导入会更新。无编号时用订单号、商品与颜色组合识别，同文件重复明细拒绝导入。
 - 金额按明细填写，不要在每行重复整单总额；内部以整数分保存金额。
 - 净实收＝实付－退款；净销量＝数量－明确填写的退货件数，不根据退款金额猜测件数。
-- 未付款、已取消、已关闭不计入统计。支付订单按订单号去重，包含后续退款订单；退款归属原订单日期，不代表退款发生日现金流。
+- 已支付、已付款、待发货、已发货、已完成、交易成功、部分退款、已退款、退款成功参与统计；未付款、已取消、已关闭、空白及未识别状态不计入统计。支付订单按订单号去重，包含后续退款订单；退款归属原订单日期，不代表退款发生日现金流。
 - 比较期为紧邻本期的相同天数；没有上期记录不等于实际零成交。缺失颜色单列展示，暂不直接支持 XLSX。
 
 ## 保存与备份
@@ -113,3 +113,13 @@ node --test tests/analytics.test.cjs
 ```
 
 测试使用内存或临时数据库，不接触真实业务数据，不调用真实 AI 或资讯网站；GitHub Actions 也会执行检查。
+
+## 订单状态与模型演示
+
+导入时必须映射订单状态。状态为空时保存为「待核对」；未知状态保留原文、排除统计，并在预览与总览显示待核对数量。已有备份中缺少状态的明细也不会计入成交。
+
+成交状态列表：已支付、已付款、待发货、已发货、已完成、交易成功、部分退款、已退款、退款成功。退款金额及退货件数仍按明确提供的字段扣减，不由状态文字推算。
+
+文件模式和「查看演示」中只提供规则报告预览，无自由问答输入框。启动服务并配置模型后，经营总览提供 AI 问答；连接失败会显示错误，不以固定报告充当模型回复。
+
+日报比较前一日，周报比较紧邻的前七日；报告中注明本期和比较期的具体日期，与总览当前选择的范围独立。

diff --git a/docs/DEPLOYMENT.md b/docs/DEPLOYMENT.md
@@ -2,7 +2,7 @@
 
 ## 当前运行方式
 
-当前版本适合“GitHub 保存代码＋本机运行工作台”。前后端由同一个 Python 服务提供；数据写入本机 SQLite，本地 AI 连接同机 Ollama。上传代码不会自动同步本机订单，也不会启动公开网站。
+当前代码托管在 GitHub，工作台在本机运行。前后端由同一个 Python 服务提供；数据写入本机 SQLite，本地 AI 连接同机 Ollama。上传代码不会自动同步本机订单，也不会启动公开网站。
 
 ## Cloudflare Pages 的适用范围
 
@@ -47,3 +47,9 @@ python3 server.py
 | 其他页面已更新数据 | 保留待录入内容，刷新最新版本后再提交 |
 | 端口已占用 | 停止旧服务，或修改 `PORT` 后启动 |
 | 文件模式和服务模式数据不同 | 两者分别存于浏览器与数据库，可用 JSON 备份迁移 |
+
+## 与小程序后台的关系
+
+当前数据路径是：小程序订单后台导出文件 → 工作台导入、字段映射与明细更新 → SQLite 分析数据 → 图表与报告。GitHub 托管代码，不负责订单同步。
+
+直接接口接入尚未实现。后续对接微信云开发或自建后台时，需要确认实际订单表、访问授权、成交状态与退款字段，再实现服务端增量读取与同步记录。业务后台仍是交易数据来源，浏览器不保存数据库访问凭据。
